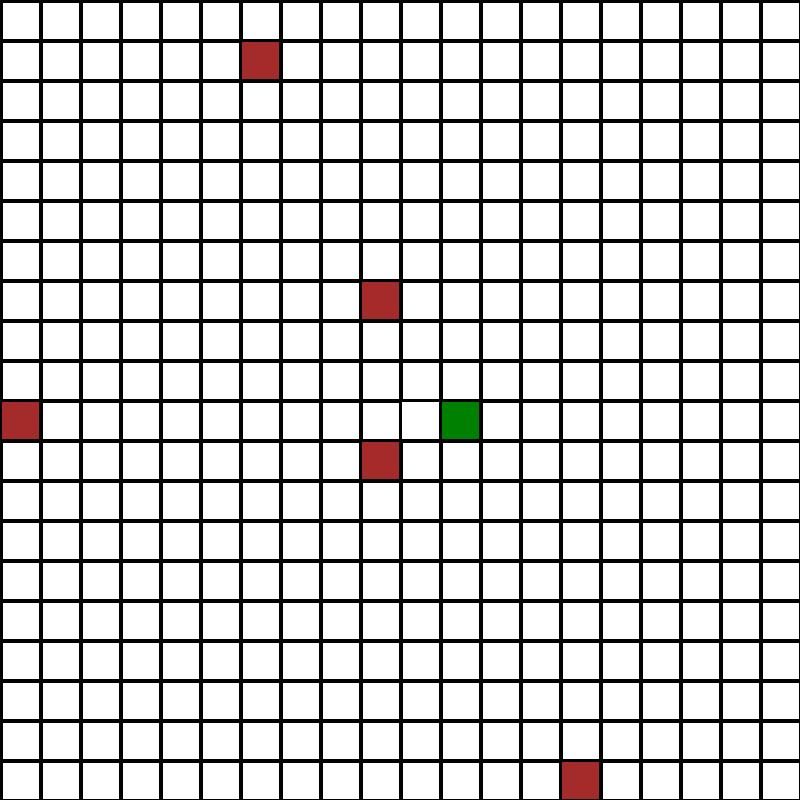
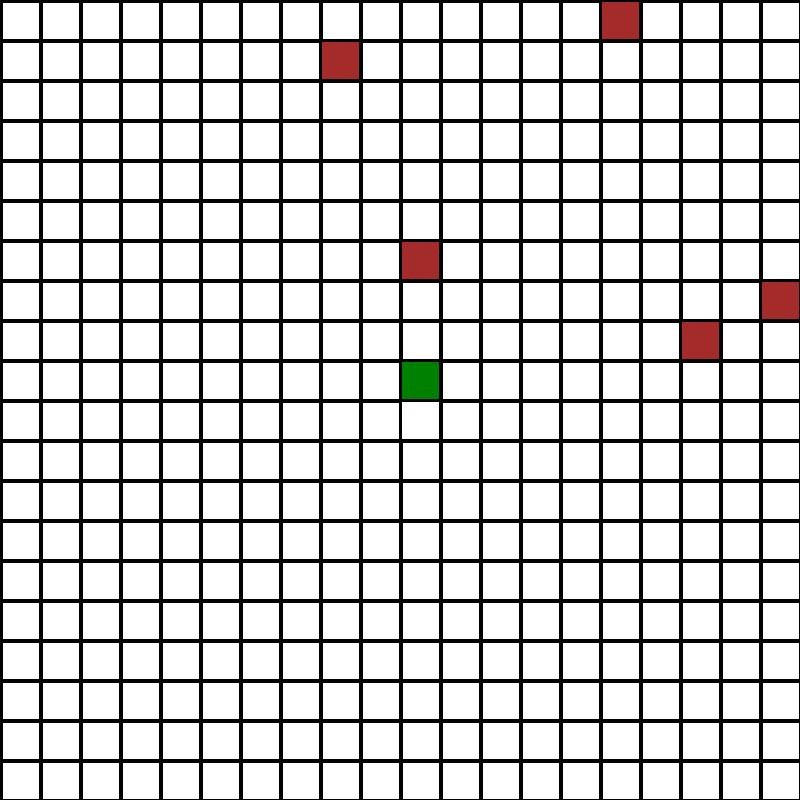
Add files via upload

diff --git a/src/ai_renfo.py b/src/ai_renfo.py
@@ -50,21 +50,34 @@ class Ant:
 
         return (top_square, right_square, bottom_square, left_square)
     
-    def nearest_fruit(self):
+    def get_nearest_fruit(self, coord):
         dist = {}
-        distances = []
+        nearest_distance = 1000000
         for fruit_coord in FRUITS_COORDS:
-            delt_x = (self.position[0] - fruit_coord[0])**2
-            delt_y = (self.position[1] - fruit_coord[1])**2
-            distance = math.sqrt(delt_x + delt_y)
-            dist[distance] = FRUITS_COORDS
-            distances.append(distance)
+            delta_x = (coord[0] - fruit_coord[0])**2
+            delta_y = (coord[1] - fruit_coord[1])**2
+            distance = math.sqrt(delta_x + delta_y)
+            dist[distance] = fruit_coord
+            if distance < nearest_distance: nearest_distance = distance
+            
+        #print(f"\n\nNearest fruits {nearest_distance} : {dist[nearest_distance]}\n\n")
 
-        print(FRUITS_COORDS, "\n")
-        print(dist)
-        print(min(distances))
-
-        return dist[min(dist.values)]
+        return (nearest_distance, dist[nearest_distance])
+    
+    def get_best_move(self):
+        nearest_distance = 1000000
+        nfs = {}
+        around_squares = self.get_around_square()
+        
+        for square_cord in around_squares:
+            distance, coords = self.get_nearest_fruit(square_cord)
+            nfs[distance] = square_cord
+            if distance < nearest_distance: nearest_distance = distance
+            
+        new_square = nfs[nearest_distance]
+        
+        return new_square
+        
 
     def move(self):
         """Move the ant weither with AI (not implemented yet) if it's set or not
@@ -75,12 +88,13 @@ class Ant:
         # for further implementation, we'll add more than just 1 and 0 in order to have different AI level
         old_position = self.position
         around_squares = self.get_around_square()
-        nf = self.nearest_fruit()
         if self.random_force:
             new_square = random.choice(around_squares)
             self.position = new_square
+            
         if not self.random_force:
-            pass
+            new_square = self.get_best_move()
+            self.position = new_square
             
         self.total_moves += 1
 
@@ -241,8 +255,8 @@ class MyEnvironment:
 
         Return : None
         """
-        abspath = Path("static/frames").absolute()
-        self.img.save(f"{abspath}/frame{i}.jpg")
+        abspath = Path("Ant_R_learning/static/frames").absolute()
+        self.img.save(f"{abspath}\\frame{i}.jpg")
 
 
 def main(nb_turn, nb_fruits, map_size, random_force=True):
@@ -294,6 +308,5 @@ if __name__ == "__main__":
     NB_FRUITS = 5
     NB_TURN = 20
     MAP, FRUITS_COORDS = init_map(NB_FRUITS, MAP_SIZE)
-    print(MAP)
 
-    main(NB_TURN, NB_FRUITS, MAP_SIZE)
+    main(NB_TURN, NB_FRUITS, MAP_SIZE, random_force=False)
